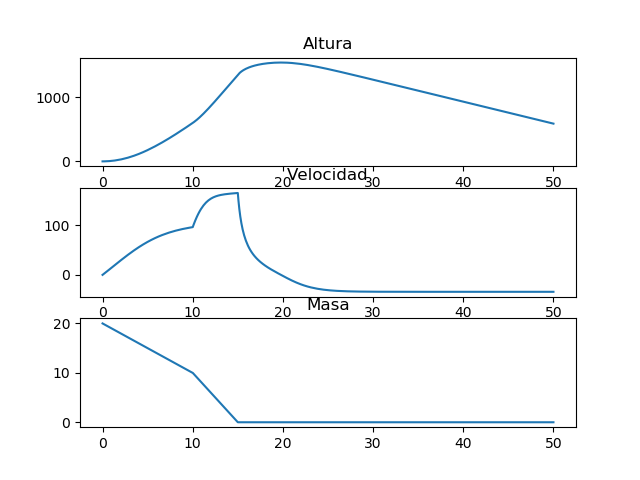
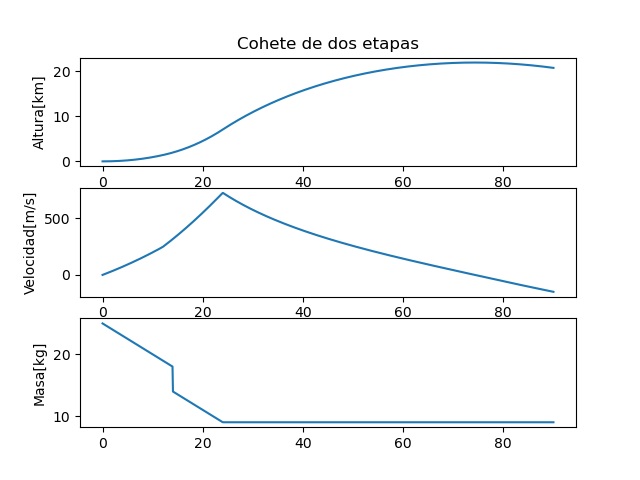
New parameters and changes at the axis of the graph

diff --git a/modelo1.py b/modelo1.py
@@ -6,13 +6,14 @@ def modelo(t, Y):
 
     # parametros
 
-    rho = 1.25
-    cd = 0.1
-    A = 0.8
-    ve = 720
-    mdot1 = 1
-    mdot2 = 2
-    ml = 2
+    rho = 0.41
+    cd = 0.2
+    A = 0.008
+    ve = 1342
+    mdd = 0.5
+    mdot1 = mdd
+    mdot2 = mdd
+    ml = 5
     ms1 = 4
     ms2 = 4
 
@@ -27,7 +28,7 @@ def modelo(t, Y):
 
     dhdt = v
     dmpdt = -mdot1
-    if mp<10:
+    if mp<6:
         dmpdt = -mdot2
         m = mp + ms2 + ml
     if mp <= 0.0:
@@ -38,26 +39,38 @@ def modelo(t, Y):
 
 # condiciones iniciales
 
-y0 = [0, 0.0, 20]
+y0 = [0, 0.0, 12]
 
 # intervalo de tiempo
-
-t = (0,50)
+ti = 0
+tf = 90
+t_eval = np.linspace(ti,tf,1000)
 
 # metodo de solucion
 
-y1=ode.solve_ivp(fun=modelo, t_span=t, y0=y0, method='RK45', rtol=1e-9)
+
+y1=ode.solve_ivp(fun=modelo, t_span=[ti,tf],t_eval = t_eval , y0=y0, method='RK45', rtol=1e-9)
 ys = y1.y
 t = y1.t
 
 # graficas
 fig, ax = plt.subplots(3)
-ax[0].plot(t, ys[0])
-ax[0].set_title('Altura')
+ax[0].plot(t, ys[0]/1000)
+ax[0].set_ylabel('Altura[km]')
+ax[0].set_title('Cohete de dos etapas')
 ax[1].plot(t, ys[1])
-ax[1].set_title('Velocidad')
-ax[2].plot(t, ys[2])
-ax[2].set_title('Masa')
+ax[1].set_ylabel('Velocidad[m/s]')
+vec_masa = ys[2]
+#impresion de la masa
+ms2 = 4
+for i in range(len(vec_masa)):
+    if vec_masa[i]<5:
+        vec_masa[i] = vec_masa[i]-ms2
+ms1 = 4
+ml = 5
+vec_masa = vec_masa + ms2 + ms1 + ml
+ax[2].plot(t, vec_masa)
+ax[2].set_ylabel('Masa[kg]')
 
 plt.show()
 
